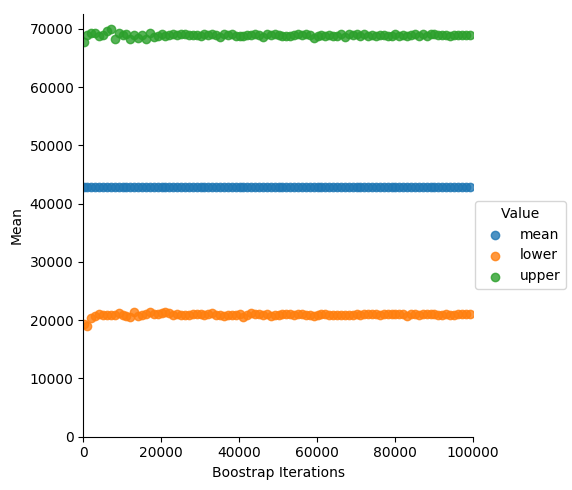
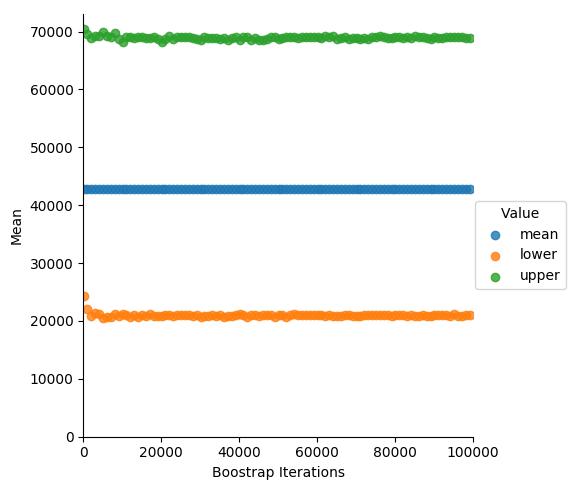
lab2

diff --git a/lab2/bootstrapvehicles.py b/lab2/bootstrapvehicles.py
@@ -1,3 +1,5 @@
+#Removing the nan values in array from melissaOu on https://stackoverflow.com/questions/11620914/removing-nan-values-from-an-array
+
 import matplotlib
 matplotlib.use('Agg')
 
@@ -11,7 +13,7 @@ import numpy as np
 
 
 
-def boostrap(statistic_func, iterations, data):
+def bootstrap(statistic_func, iterations, data):
 	samples  = np.random.choice(data,replace = True, size = [iterations, len(data)])
 	#print (samples.shape)
 	data_mean = data.mean()
@@ -31,33 +33,21 @@ if __name__ == "__main__":
 	df = pd.read_csv('./vehicles.csv')
 	#print (df.columns)
 	
-	data = df.values.T[1]
+	data = df.values.T[0]   #getting the data for current fleet column
 	boots = []
-	for i in range(100,100000,1000):
-		boot = boostrap(np.mean, i, data)
-		boots.append([i,boot[0], "mean"])
-		boots.append([i,boot[1], "lower"])
-		boots.append([i,boot[2], "upper"])
+	boots = bootstrap (np.std,10000, data)   
+	#print(boots) will print (STD, lower, upper)
+	print("Current Fleet Standard Deviation :", boots[0]) 
+	print("Current Fleet Upper Bound:" , boots[2])
+	print("Current Fleet Lower Bound" , boots[1])
 
 
-
-	df_boot = pd.DataFrame(boots,  columns=['Boostrap Iterations','Mean',"Value"])
-	sns_plot = sns.lmplot(df_boot.columns[0],df_boot.columns[1], data=df_boot, fit_reg=False,  hue="Value")
-
-
-
-
-	sns_plot.axes[0,0].set_ylim(0,)
-	sns_plot.axes[0,0].set_xlim(0,100000)
-
-	sns_plot.savefig("bootstrapvehicles.png",bbox_inches='tight')
-	sns_plot.savefig("bootstrapvehicles.pdf",bbox_inches='tight')
-
-	
-	
-	print (("Mean: %f")%(np.mean(data)))
-	print (("Var: %f")%(np.var(data)))
-	
-
+	data = df.values.T[1]   #getting the data for new fleet column
+	data = data[np.logical_not(np.isnan(data))]    #removing nan values in array
+	boots = []
+	boots = bootstrap (np.std,10000, data)
+	print("\nNew Fleet Standard Deviation :", boots[0])
+	print("New Fleet Upper Bound:" , boots[2])
+	print("New Fleet Lower Bound" , boots[1])
 
 	

diff --git a/lab2/vehicles.py b/lab2/vehicles.py
@@ -29,9 +29,10 @@ def mad(arr):
 
 if __name__ == "__main__":
 	df = pd.read_csv('./vehicles.csv')
-	newdf = df.dropna() 
-	print (newdf.columns)
-	sns_plot = sns.lmplot(newdf.columns[0], newdf.columns[1], data=df, fit_reg=False)   #creating plot using data from the file
+	df = df.dropna() 
+	print (df.columns)
+	#print (df)
+	sns_plot = sns.lmplot(df.columns[0], df.columns[1], data=df, fit_reg=False)   #creating plot using data from the file
 
 	sns_plot.axes[0,0].set_ylim(0,)
 	sns_plot.axes[0,0].set_xlim(0,)
@@ -42,7 +43,7 @@ if __name__ == "__main__":
 	sns_plot.savefig("vehiclesscaterplot.png",bbox_inches='tight')   #save scatter plots into png
 	sns_plot.savefig("vehiclesscaterplot.pdf",bbox_inches='tight')   #save scatter plots into pdf
  
-	data = newdf.values.T[1]
+	data = df.values.T[1]
 	
 	
 	print (("Mean: %f")%(np.mean(data)))
